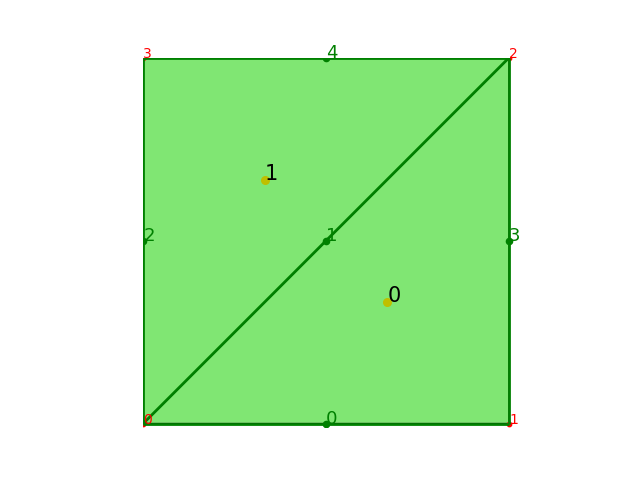
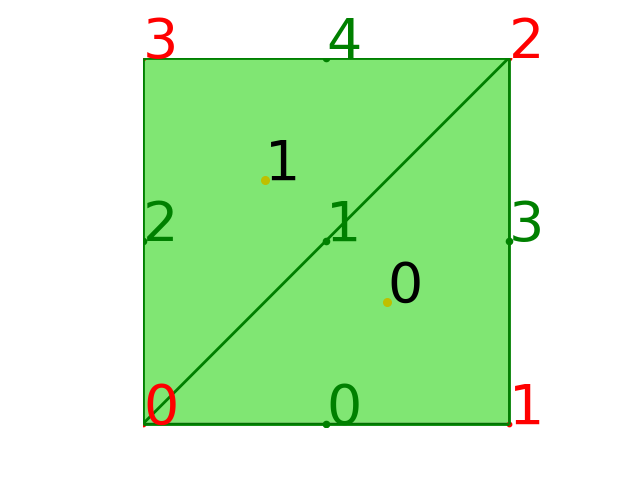
修改mesh-base.md和tri-mesh.md

diff --git a/docs/_docs/zh/mesh/tri-mesh.md b/docs/_docs/zh/mesh/tri-mesh.md
@@ -6,6 +6,7 @@ key: docs-tri-mesh-zh
 
 ## 基本结构
 $\quad$在 FEALPy 中可以通过 TriangleMesh 来建立三角形网格对象，只需给出节点数组 node 和单元数组 cell，如下述代码所示
+
 ```python
 import numpy as np
 from fealpy.mesh import TriangleMesh
@@ -16,21 +17,46 @@ node = np.array([
     [1.0, 1.0],
     [0.0, 1.0]], dtype=np.float64) # (NN, 2)
 
-cell = np.array([[1, 2, 0], [3, 0, 2]], dtype=np.int_) # (NC, 3)
+cell = np.array([
+            [1, 2, 0], 
+            [3, 0, 2]], dtype=np.int_) # (NC, 3)
 
 mesh = TriangleMesh(node, cell)
+
+fig = plt.figure()
+axes = fig.gca()
+mesh.add_plot(axes)
+mesh.find_node(axes,showindex=True,fontsize=40)
+mesh.find_edge(axes, showindex=True,fontsize=40)
+mesh.find_cell(axes, showindex=True,fontsize=40)
+plt.show()
 ```
 
 生成的网格图像为
 
 <img src="../../../assets/images/mesh/tri-mesh/Triangle.png" alt="Triangle" style="zoom:50%;" />
 
-$\quad$其中，node给出了节点的数据，cell给出了单元的数据。在上述算例中，cell包含两个单元，
-即[1,2,0]与[3,0,2]，这存储的是构成网格单元的节点的编号，[1,2,0]即由node[1],node[2],
-和node[0]三个节点构成的三角形网格单元。在FEALPy中，网格单元节点一般由逆时针方向给出，
-因此给出节点的顺序为[1,2,0]，而不是[1,0,2]。
+$\quad$其中，node 给出了节点的数据，cell 给出了单元的数据。在上述算例中，cell 
+包含两个单元，即[1,2,0]与[3,0,2]，存储的是构成网格单元的节点的编号，[1,2,0]即由
+ node[1],node[2],和 node[0] 三个节点构成的三角形网格单元。
 
-$\quad$生成网格后，可以通过TriangMesh中的方法进行一致加密:
+$\quad$在 Fealpy 中，我们约定左手方向为正方向，对于边界边来说，则要求左单元为内部单元，
+而不能是外部。以上图为例，其 edge 的数据为
+```python
+edge:
+ [[0 1]
+ [2 0]
+ [3 0]
+ [1 2]
+ [2 3]]
+```
+$\quad$想象你站在0号边，背朝0号点，面朝1号点，此时，你的左手边就是左单元，同时
+也是内部区域，而右手边为外部区域。
+
+$\quad$图中还给出了各边的编号，这些编号称为边的全局编号。除此以外，在每个单元上
+还有各边的局部编号，记录每个单元内各边的顺序，可以通过 cell2edge 或 edge2cell 来得知它。
+
+$\quad$生成网格后，还可以通过 TriangMesh 中的方法进行一致加密:
 ```python
 mesh.uniform_refine(1)
 ```
@@ -39,7 +65,7 @@ mesh.uniform_refine(1)
 
 <img src="../../../assets/images/mesh/tri-mesh/uniform_refine.png"  />
 
-## 常用成员函数
+# 网格拓扑关系
 
 $\quad$生成网格后，可以访问网格的各种数据:
 ```python
@@ -58,8 +84,10 @@ area = mesh.entity_measure('cell') # (NC,1), 每个单元的面积
 eh = mesh.entity_measure('edge') # (NE,1), 每条边的长度
 ```
 
-除此以外，还可以获得node,edge,cell等实体间的邻接关系，以如下网格单元剖分为例结合输
+除此以外，还可以获得 node,edge,cell 等实体间的关系，以如下网格单元剖分为例结合输
 出进行说明
+## cell 与 node,edge,cell 间的关系
+
 <img src="../../../assets/images/mesh/tri-mesh/Triangle.png" alt="Triangle" style="zoom:50%;" />
 
 ```python
@@ -85,12 +113,14 @@ cell2cell:
  [[1 0 0]
  [0 1 1]]
 ```
-$\quad$首先需要说明全局编号与局部编号的不同。在上面的网格剖分中，共有5条边，记为0到4号边，这是它们的全局编号，
-而在每个单元中，每条边又标记为0到2号边，例如，通过cell2edge可以看出，对于0号单元，1号边为它的0号边，0号边为它的1号边，3号边为它的2号边，这是它们的局部编号。
+$\quad$通过 cell2edge 可以看出，对于0号单元，1号边为它的0号边，0号边为它的1号边，3
+号边为它的2号边，这就是它们的局部编号。
 
-$\quad$还需要说明，cell2cell存储的是三条边相邻的单元编号，当相邻单元为无界区域时，存储的编号为该单元本身的编号。
-例如0号单元，其0号边与1号单元相邻，故cell2cell中储存其单元编号1，而1,2号边均与无界区域相邻，故储存的单元编号为其本身，即0。
+$\quad$还需要说明，cell2cell 存储的是三条边相邻的单元编号，当相邻单元为无界区域时，
+存储的编号为该单元本身的编号。例如0号单元，其0号边与1号单元相邻，故 cell2cell 中储
+存其单元编号1，而1,2号边均与无界区域相邻，故储存的单元编号为其本身，即0。
 
+## edge与 node,edge,cell 间的关系
 ```python
 edge2cell = mesh.ds.edge_to_cell() 
 # (NE, 4),边与单元的邻接关系，储存与每条边相邻的两个单元的信息
@@ -131,15 +161,16 @@ edge2edge:
   (4, 4)	True
   (4, 3)	True
   (4, 1)	True
-\end{lstlisting}
+```
+$\quad$edge2cell 存储了与每条边相邻的两个单元的信息，前两项为单元的编号，后两项为
+该边在对应单元中的局部编号，若该边为边界边，则前两项的编号相同。以0号边为例，因
+其与0号单元和无界区域相邻，故前两项均为0，又因在0号单元中，其为1号边，故后两项均为1；
+再以1号边为例，因其与0号单元和1号单元相邻，故前两项为0,1，又其在0号单元和1号单元
+中均为0号边，故后两项均为0。
 
-edge2cell存储了与每条边相邻的两个单元的信息，前两项为单元的编号，后两项为该边在对应单元中的局部编号，若该边为边界边，则前两项的编号相同。以0号边为例，
-因其与0号单元和无界区域相邻，故前两项均为0，又因在0号单元中，其为1号边，故后两项均为1；
-再以1号边为例，因其与0号单元和1号单元相邻，故前两项为0,1，又其在0号单元和1号单元中均为0号边，
-故后两项均为0。
-
-edge2edge为稀疏矩阵，它判断两条边是否相邻，如0号边与3号边相邻，故矩阵在(0,3)处为True, 
-而未相邻的两条边在矩阵中的对应位置均为False。
+$\quad$edge2edge 为稀疏矩阵，它判断两条边是否相邻，如0号边与3号边相邻，故矩阵在
+(0,3)处为 True, 而未相邻的两条边在矩阵中的对应位置均为 False。
+## node与 node,edge,cell 间的关系
 ```python
 node2cell = mesh.ds.node_to_cell() 
 # 稀疏矩阵,(NN, NC),判断节点是否位于某单元中，位于则对应位置为True，否则为False
@@ -161,9 +192,10 @@ node2cell:
   (3, 1)	True
 ```
 
-因为原理相同，故这里只输出了node2cell。以0号点为例，可以看出，由于0号点既位于0号
-单元，又位于1号单元，故在矩阵中，(00),(0,1)均为True。
+因为原理相同，故这里只输出了 node2cell。以0号点为例，可以看出，由于0号点既位于0号
+单元，又位于1号单元，故在矩阵中，(0,0),(0,1)均为 True。
 
+## node,edge,cell 与边界的关系
 ```python
 isBdNode = mesh.ds.boundary_node_flag()
 # (NN, ), bool，判断是否为边界点
@@ -182,12 +214,12 @@ isBdCell = mesh.ds.boundary_cell_flag()
 
 给定三角形的三个顶点的坐标$\boldsymbol{x_0}=(x_0,y_0),\boldsymbol{x_1}=(x_1,y_1),
 \boldsymbol{x_2}=(x_2,y_2)$，则三角形内任意一点(包含边界)$\boldsymbol{x} = (x,y)$
-可以写成这三点坐标的线性组合形式，即 $\boldsymbol{x}=\lambda_0\boldsymbol{x_0} 
-+ \lambda_1\boldsymbol{x_1} +\lambda_2\boldsymbol{x_2}$ 且满足 
-  $\lambda_0 + \lambda_1 +\lambda_2=1$和$\lambda_0,\lambda_1,\lambda_2$均大于等于0。
-  则称此时三个坐标$\boldsymbol{x_0},\boldsymbol{x_1},\boldsymbol{x_2}$ 的权重, 
-  $\lambda_0,\lambda_1,\lambda_2$ 为点$\boldsymbol{x}$的重心坐标，即为
-  $(\lambda_0,\lambda_1,\lambda_2)$。
+可以写成这三点坐标的线性组合形式，即 
+$\boldsymbol{x}=\lambda_0\boldsymbol{x_0} + \lambda_1\boldsymbol{x_1} +\lambda_2\boldsymbol{x_2}$ 且满足 
+$\lambda_0 + \lambda_1 +\lambda_2=1$和$\lambda_0,\lambda_1,\lambda_2$均大于等于0。
+则称此时三个坐标$\boldsymbol{x_0},\boldsymbol{x_1},\boldsymbol{x_2}$ 的权重, 
+$\lambda_0,\lambda_1,\lambda_2$ 为点$\boldsymbol{x}$的重心坐标，即为
+$(\lambda_0,\lambda_1,\lambda_2)$。
 
 下面从几何的角度来解释
 
@@ -249,23 +281,100 @@ Dlambda[:,2,:] = v2@W/length.reshape(-1, 1)
 ```
 ## 三角形网格展示
 
-利用TriangleMesh，可以生成在不同区域下不同类型的三角形结构网格。
+$\quad$利用 TriangleMesh，可以生成在不同区域下不同类型的三角形结构网格。
+```python
+from fealpy.mesh import MeshFactory as mf 
 
-<img src="../../../assets/images/mesh/tri-mesh/lshape.png" width="350"/><img src="../../../assets/images/mesh/tri-mesh/cross.png" width="350"  />
+mesh = mf.lshape_mesh(n=4)# L型区域下的结构三角形网格
+```
+<img src="../../../assets/images/mesh/tri-mesh/lshape.png" />
 
-<img src="../../../assets/images/mesh/tri-mesh/fishbone.png" width="350"/><img src="../../../assets/images/mesh/tri-mesh/rice.png" width="350" />
+```python
+box = [0,1,0,1]
+mesh = mf.special_boxmesh2d(box, n=10, meshtype='fish')# 鱼型三角形网格
+```
 
-也可以生成非结构网格
+<img src="../../../assets/images/mesh/tri-mesh/fishbone.png" />
+
+```python
+box = [0,1,0,1]
+mesh = mf.special_boxmesh2d(box, n=10, meshtype='rice')# 米字型三角形网格
+```
+
+<img src="../../../assets/images/mesh/tri-mesh/rice.png" />
+
+
+$\quad$也可以生成非结构网格
+```python
+mesh = mf.special_boxmesh2d(box,n=10,meshtype='nonuniform')
+```
 
 <img src="../../../assets/images/mesh/tri-mesh/nonuniform.png" />
 
+```python
+mesh = mf.special_boxmesh2d(box,n=10,meshtype='nonuniform')
+```
+
+
 可以生成三角形网格的对偶多边形网格
+```python
+mesh = mf.triangle(box, h=0.1, meshtype='tri')#三角形非结构网格
+mesh = mf.triangle(box, h=0.1, meshtype='poly')#三角形的对偶多边形网格
+```
 
 <img src="../../../assets/images/mesh/tri-mesh/triangle.png" width="350"/><img src="../../../assets/images/mesh/tri-mesh/poly.png" width="350"/>  
-除这些外，fealpy还实现了matlab中distmesh工具箱中的部分功能，可以利用distmesh算法
+
+在 MeshFactory 中可以看到这些代码的实现细节。
+
+$\quad$除这些外，Fealpy 还实现了 matlab 中 distmesh 工具箱中的部分功能，可以利用distmesh算法
 生成非结构的三角形网格
+```python
+from fealpy.mesh.simple_mesh_generator import distmesh2d,unitcircledomainmesh
+from fealpy.geometry import huniform
+from fealpy.geometry import dcircle,drectangle,ddiff,dmin
+from fealpy.geometry import DistDomain2d
 
-<img src="../../../assets/images/mesh/tri-mesh/distmesh1.png" width="350"/><img src="../../../assets/images/mesh/tri-mesh/square_h.png" width="350"  />
+from fealpy.mesh import DistMesh2d
+from fealpy.mesh import PolygonMesh
+from fealpy.mesh import TriangleMeshWithInfinityNode
 
-<img src="../../../assets/images/mesh/tri-mesh/distmesh2.png" width="350"/><img src="../../../assets/images/mesh/tri-mesh/distmesh3.png" width="350"  />
+fd = lambda p: dcircle(p,[0,0],1)
+fh = huniform
+bbox = [-1,1,-1,1]
+domain = DistDomain2d(fd, fh, bbox)
+distmesh2d = DistMesh2d(domain,h0)
+distmesh2d.run()
+```
+<img src="../../../assets/images/mesh/tri-mesh/distmesh1.png" />
+
+```python
+fd = lambda p: ddiff(drectangle(p,[-1.0,1.0,-1.0,1.0]),dcircle(p,[0,0],0.4))
+def fh(p):
+    h = 4*np.sqrt(p[:,0]*p[:,0]+p[:,1]*p[:,1])-1
+    h[h>2] = 2
+    return h
+bbox = [-1,1,-1,1]
+pfix = np.array([(-1.0,-1.0),(1.0,-1.0),(1.0,-1.0),(1.0,1.0)],dtype=np.float)
+domain = DistDomain2d(fd,fh,bbox,pfix)
+distmesh2d = DistMesh2d(domain,h0)
+distmesh2d.run()
+```
+
+<img src="../../../assets/images/mesh/tri-mesh/square_h.png" />
+
+```python
+fd1 = lambda p: dcircle(p,[0,0],1)
+fd2 = lambda p: dcircle(p,[-0.4,0],0.55)
+fd = lambda p: ddiff(ddiff(fd1(p),fd2(p)),p[:,1])
+fh1 = lambda p: 0.15-0.2*fd1(p)
+fh2 = lambda p: 0.06+0.2*fd2(p)
+fh3 = lambda p: (fd2(p)-fd1(p))/3
+fh = lambda p: dmin(dmin(fh1(p),fh2(p)),fh3(p))
+bbox = [-1,1,0,1]
+pfix = np.array([(-1.0,0.0),(-0.95,0.0),(0.15,0.0),(1.0,0.0)],dtype = np.float)
+domain = DistDomain2d(fd,fh,bbox,pfix)
+distmesh2d = DistMesh2d(domain,h0)
+distmesh2d.run()
+```
+<img src="../../../assets/images/mesh/tri-mesh/distmesh2.png"/>
 
